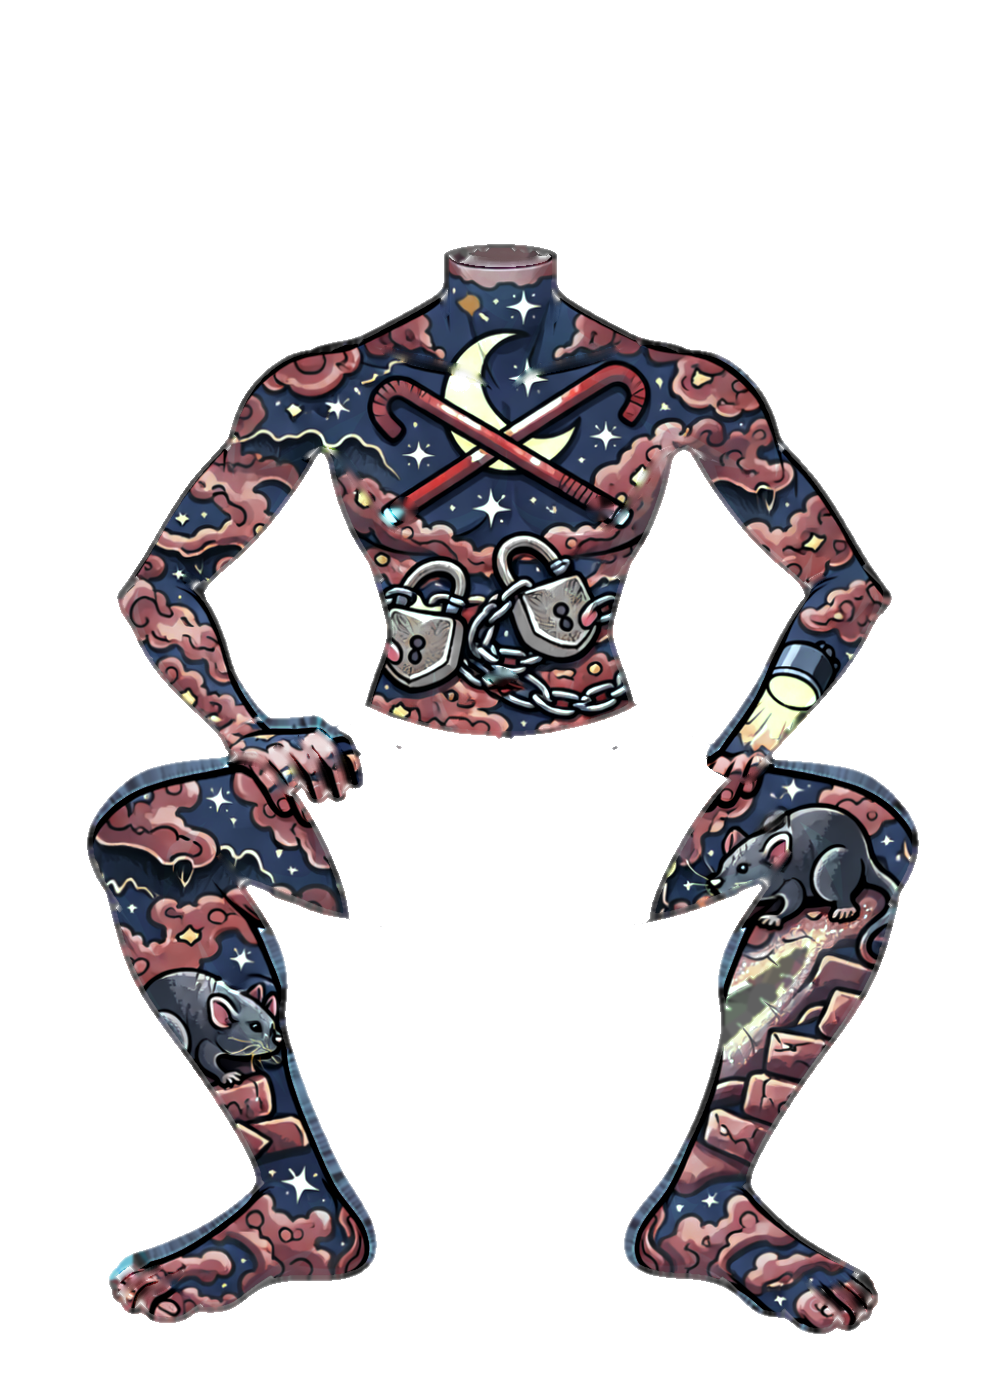
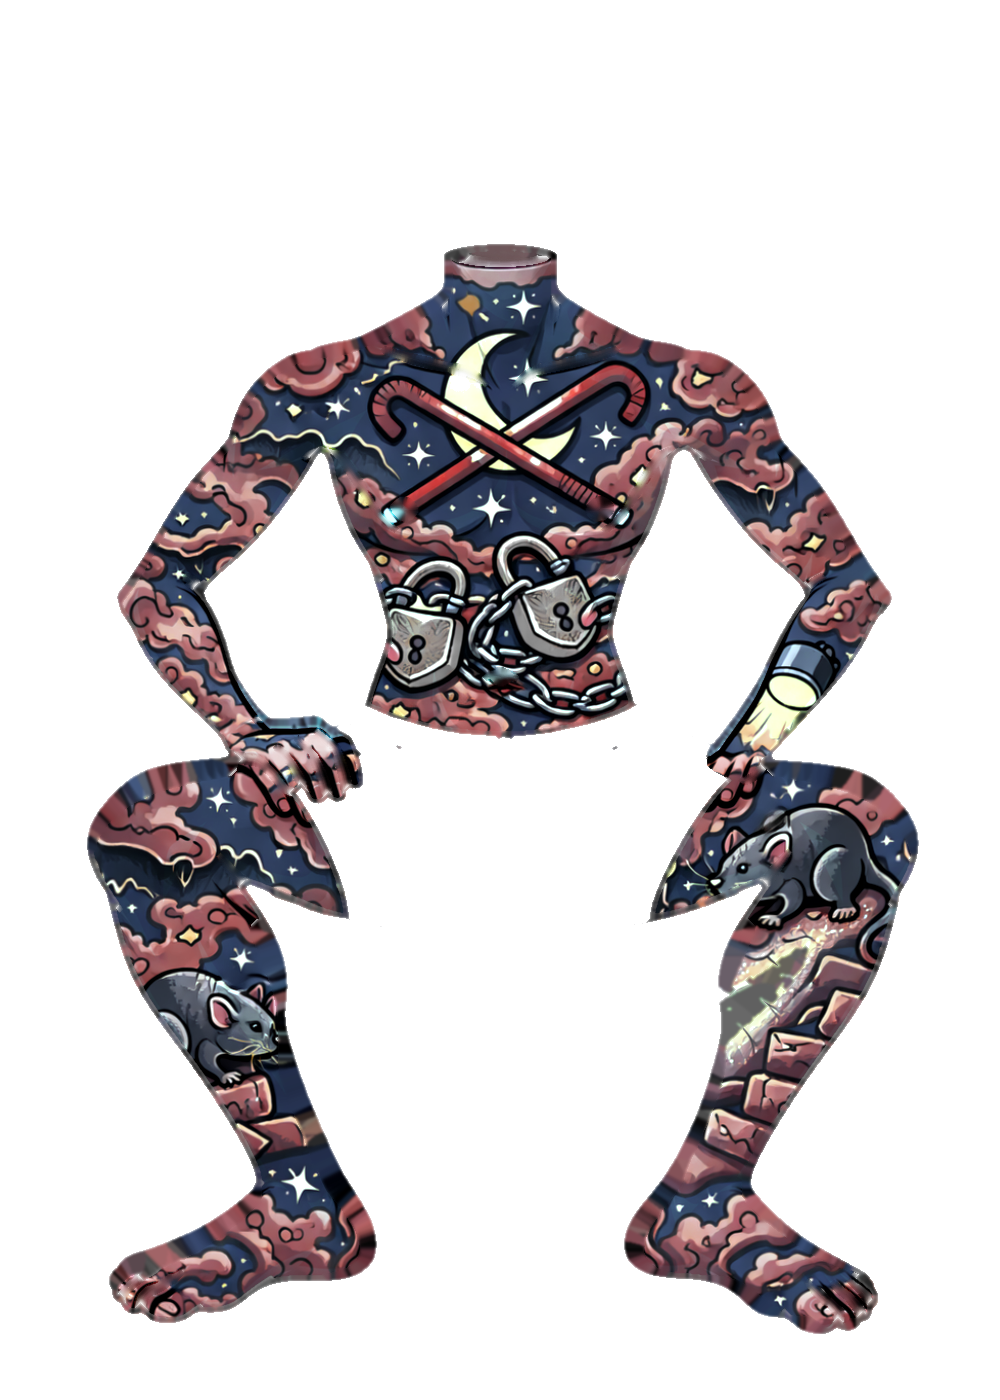
Boss cards: medals instead of «Нет карт», «Нет ключей» under the keys; tattoo-ink drops the edit's own limb outline (the new sets' legs had a second contour)
Claude-Session: https://claude.ai/code/session_01XtpZhZabEYUcJEQKQgYpHe

diff --git a/src/client/screens/bosses.tsx b/src/client/screens/bosses.tsx
@@ -135,7 +135,10 @@ export function BossesScreen() {
                 </div>
                 <div className="bcard-foot">
                   {locked ? (
-                    <span className="bcard-meta">{prev && <ItemArt id={`key-${prev.id}`} size={22} />} {row?.keysHave ?? 0}/{row?.keysNeed ?? 3}</span>
+                    <span className="bcard-meta stack" title="Пропуски для входа к боссу">
+                      <span className="row" style={{ gap: 4 }}>{prev && <ItemArt id={`key-${prev.id}`} size={22} />} {row?.keysHave ?? 0}/{row?.keysNeed ?? 3}</span>
+                      {(row?.keysHave ?? 0) < (row?.keysNeed ?? 3) && <b className="bcard-nokeys">Нет ключей</b>}
+                    </span>
                   ) : (
                     <span className="bcard-meta stack" title="Боёв сегодня из дневного лимита · побед над этим боссом за всё время">
                       <span>Сегодня <b className="num">{row?.fightsToday ?? 0}/{row?.fightsPerDay ?? 7}</b></span>
@@ -157,9 +160,7 @@ export function BossesScreen() {
                     )}
                     {/* his three medals as in «Дела» (bronze, silver, gold — for 10 / 50 / 100 wins), grey till reached;
                         the whole card opens the fight */}
-                    {locked ? (
-                      <span className="bcard-cta display off"><Icon name="lock" size={14} /> Нет карт</span>
-                    ) : (
+                    {(
                       <span className="bcard-medals" title={`Побед: ${row?.myWins ?? 0}. Медали: ${BOSS_KILL_TARGETS.join(" / ")} побед`}>
                         {MEDAL_TIERS.map((t, k) => (
                           <span key={t} className={`bcard-coin c${k} ${(row?.myWins ?? 0) >= BOSS_KILL_TARGETS[k] ? "on" : "off"}`}><BossCoin boss={b} tier={t} size={38} /></span>

diff --git a/src/app/screens.css b/src/app/screens.css
@@ -5755,3 +5755,5 @@ html.paused *, html.paused *::before, html.paused *::after { animation-play-stat
 .hs-card-st.ready { background: #ffcc33; color: #2a1404; }
 .hs-card.empty .hs-card-st { background: none; color: #8a6a48; font-weight: 700; bottom: 44%; }
 @media (prefers-reduced-motion: reduce) { .hs-lock.live > img:first-child, .hs-picks { animation: none; } }
+/* a locked boss card: not enough keys from the one before */
+.bcard-meta b.bcard-nokeys { color: #b8321c; font-size: 11px; }

diff --git a/tools/rig/tattoo-ink.py b/tools/rig/tattoo-ink.py
@@ -59,8 +59,9 @@ def fit_box(target, moving_mask, moving_img):
     return m, img
 
 
-def warp_onto(target, moving_mask, moving_img):
-    """warp moving_img so its figure (moving_mask) lies on target (rule 1): box fit, then a dense flow between outlines"""
+def warp_onto(target, moving_mask, moving_img, with_mask=False):
+    """warp moving_img so its figure (moving_mask) lies on target (rule 1): box fit, then a dense flow between outlines;
+    `with_mask`: also the warped figure (where the edit's own outline ended up)"""
     moving_mask, moving_img = fit_box(target, moving_mask, moving_img)
     H, W = target.shape
     yy, xx = np.mgrid[0:H, 0:W].astype(np.float32)
@@ -76,7 +77,8 @@ def warp_onto(target, moving_mask, moving_img):
         ny = cv2.remap(my, xx + flow[..., 0], yy + flow[..., 1], cv2.INTER_LINEAR, borderMode=cv2.BORDER_REPLICATE)
         mx, my = nx, ny
         cur = cv2.remap(moving_mask.astype(np.uint8) * 255, mx, my, cv2.INTER_LINEAR) > 127
-    return cv2.remap(moving_img, mx, my, cv2.INTER_LINEAR, borderMode=cv2.BORDER_REPLICATE)
+    img = cv2.remap(moving_img, mx, my, cv2.INTER_LINEAR, borderMode=cv2.BORDER_REPLICATE)
+    return (img, cur) if with_mask else img
 
 
 def unmix(a, b, inside):
@@ -138,9 +140,14 @@ def main(sid):
     skin = body & ~shorts & (ndimage.distance_transform_edt(body) > 3)
     b0 = prep(os.path.join(T, "_edits", f"{sid}-hq.png"))
     # both figures by the same rule (holes between the arms and the body filled), so the outlines compare like for like
-    b = warp_onto(figure(a), figure(b0), b0)
+    b, bm = warp_onto(figure(a), figure(b0), b0, with_mask=True)
     out, lines = unmix(a, b, ndimage.binary_erosion(body, iterations=3) & ~shorts)
-    out = fill_gaps(out, skin, lines)
+    # the edit's own outline: where its limbs are thinner than the hero's (the flow does not always get them all the
+    # way), it lands inside the body as a dark line along the edge — taken out and inpainted like the hero's own lines
+    own = (np.abs(sdf(bm)) < 8) & (b.mean(2) < 110) & (ndimage.distance_transform_edt(body) > 5)
+    own = ndimage.binary_dilation(own, iterations=2) & body
+    out[own, 3] = 0
+    out = fill_gaps(out, skin, lines | own)
     covered = ndimage.binary_fill_holes(ndimage.binary_closing(out[..., 3] > 30, iterations=3))
     bare = (skin & ~covered).sum() / skin.sum()
     os.makedirs(os.path.join(T, sid), exist_ok=True)
